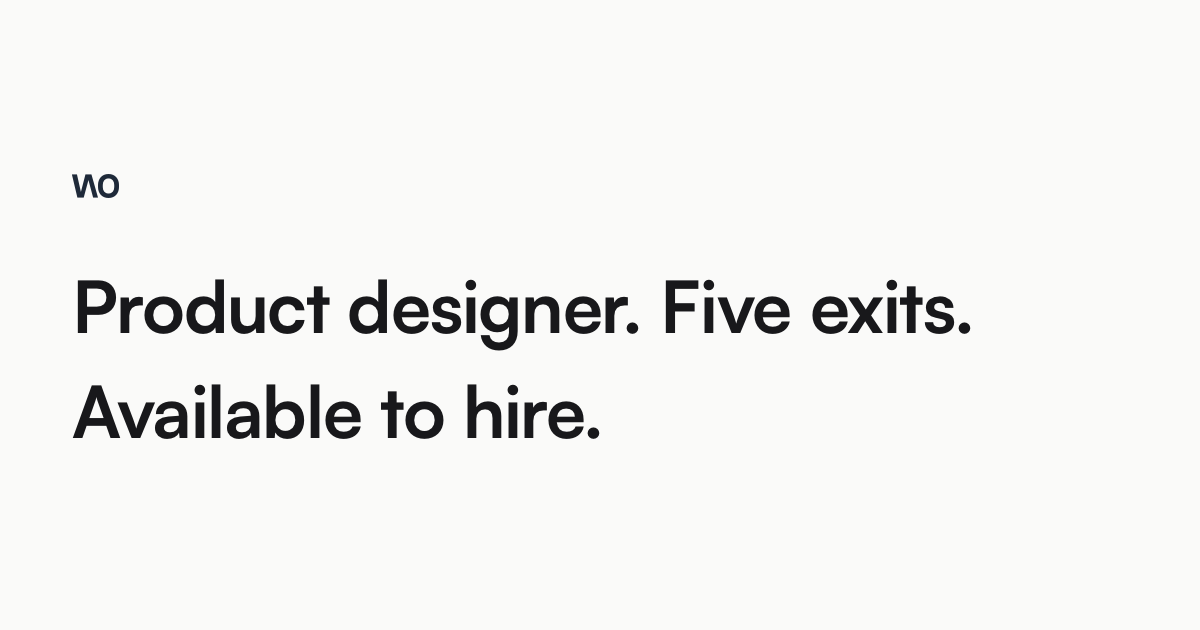
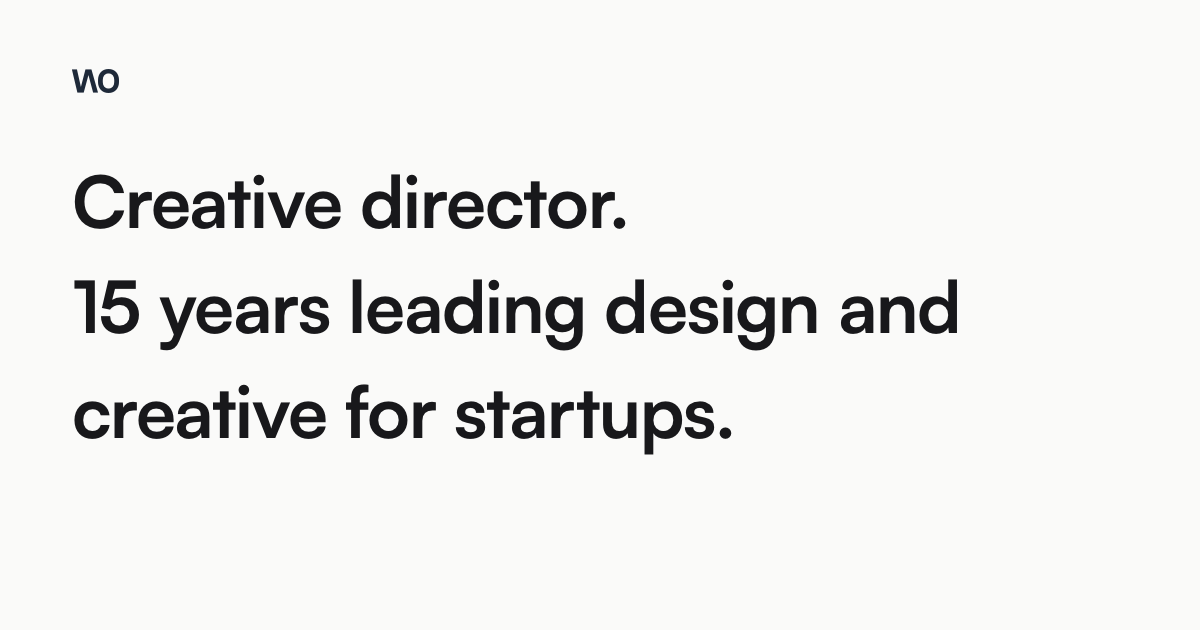
Merge pull request fix/mobileNavigation

Pull request: Fix/mobile navigation
- Giving links a large hitbox.
- Updating OpenGraph image.

diff --git a/src/components/partials/Header.svelte b/src/components/partials/Header.svelte
@@ -103,7 +103,7 @@
     ? 'flex'
     : 'hidden'} mobile-nav bg-bg-main fixed inset-0 z-100 h-dvh flex-col items-center justify-center lg:hidden"
 >
-  <ul class="flex flex-col gap-12">
+  <ul class="flex w-full flex-col gap-12">
     {#each navItems as { href, title, description }}
       <li class="group text-center" class:active={isActive(href)}>
         <a {href} onclick={toggleMenu}>